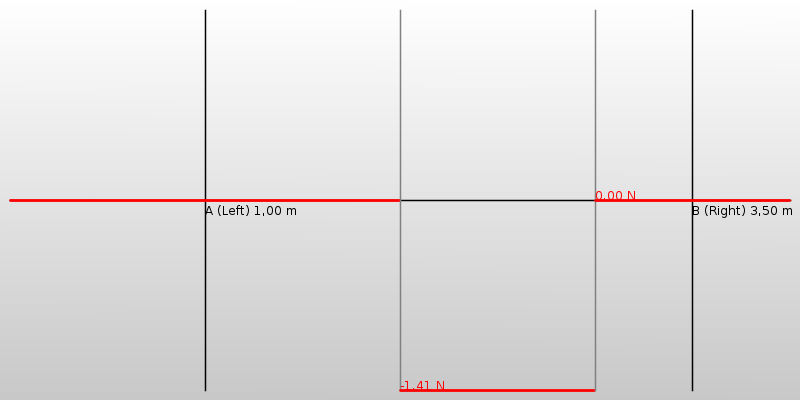
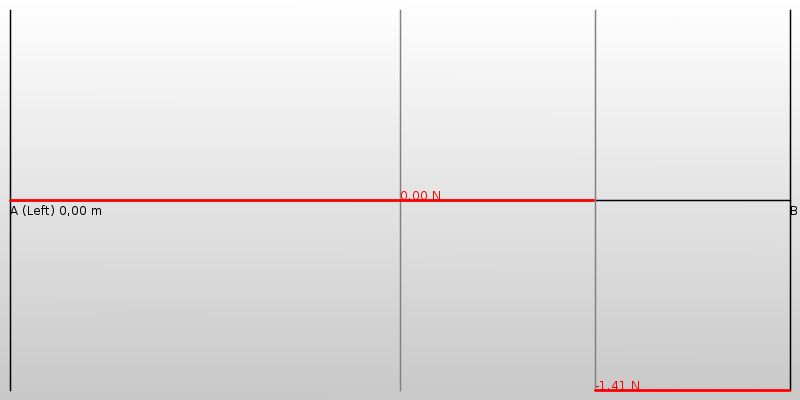
Worked on M- Solver....

diff --git a/src/org/berthold/beamCalc/StressResultantTable.java b/src/org/berthold/beamCalc/StressResultantTable.java
@@ -126,8 +126,7 @@ public class StressResultantTable {
 	 */
 	public void addDistributedLoad(Load dl_Nm) {
 
-		double dq_perSectionLength = dl_Nm.getForce_N() / (1 / this.sectionLength_m);
-
+		double dq_perSectionLength = dl_Nm.getForce_N() / (1/this.sectionLength_m);
 		double xStartOfLoad = dl_Nm.getDistanceFromLeftEndOfBeam_m();
 		double xEndOfLoad = dl_Nm.getDistanceFromLeftEndOfBeam_m() + dl_Nm.getLengthOfLineLoad_m();
 
@@ -136,18 +135,21 @@ public class StressResultantTable {
 			// Set disconiuity at start of load
 			if (xStartOfLoad>=r.getX_m() && xStartOfLoad<=r.getX_m()+this.sectionLength_m) {
 				r.setDiscontiunuity(true);
-				r.setShearingForceDeltaBy(dq_perSectionLength);
+				r.addValue(dq_perSectionLength);
+				System.out.println("START Disc!"+r.getX_m());
 			}
 
 			// Add load 
 			if (r.getX_m() >= xStartOfLoad && r.getX_m() <= xEndOfLoad) {
 				r.addValue(dq_perSectionLength);
+				System.out.println("q="+dq_perSectionLength+" x="+r.getX_m());
 			}
 			
 			// Set disconiuity at end of load
 			if (xEndOfLoad>=r.getX_m() && xEndOfLoad<=r.getX_m()+this.sectionLength_m) {
 				r.setDiscontiunuity(true);
 				r.setShearingForceDeltaBy(dq_perSectionLength);
+				System.out.println("END Disc!"+r.getX_m()+r.getX_m());
 			}
 
 		}

diff --git a/src/MainBeamCalculator.java b/src/MainBeamCalculator.java
@@ -19,18 +19,18 @@ public class MainBeamCalculator {
 
 		// Create a new beam
 		Beam myBeam = new Beam(4);
-		myBeam.addBearing(new Support("A (Left)", 1, Support.ROLLER_SUPPORT));
-		myBeam.addBearing(new Support("B (Right)", 3.5, Support.PIN_SUPPORT));
+		myBeam.addBearing(new Support("A (Left)", 0, Support.ROLLER_SUPPORT));
+		myBeam.addBearing(new Support("B (Right)", 4, Support.PIN_SUPPORT));
 
 		// Add loads
 		// NAME/ Force/ Distance/ Angle /Length
-		myBeam.addLoad(new Load("F1", -2.0, 2, 45, 0));
-		myBeam.addLoad(new Load("F2", 2, 3,45, 0));
+		myBeam.addLoad(new Load("F1", -2.0, 2, 0, 0));
+		myBeam.addLoad(new Load("F2", -2, 3,45, 0));
 		//myBeam.addLoad(new Load("F3", -1, 4,0, 0));
 		//myBeam.addLoad(new Load("q1", -5, 0, 0, 4));
 		
 		
-		//myBeam.addLoad(new Load("q2", -2, 0, 0, 4));
+		//myBeam.addLoad(new Load("q2", 2, 0, 0, 4));
 		//myBeam.addLoad(new Load("q3", -4, 2, 0, 2));
 
 		// Show beam info

diff --git a/src/org/berthold/beamCalc/QSolver.java b/src/org/berthold/beamCalc/QSolver.java
@@ -40,7 +40,7 @@ public class QSolver {
 	 * 
 	 */
 	public static StressResultantTable solve(Beam beam, String unit) {
-		final double sectionLength_m = .001; // Small values lead to more accurate results.
+		final double sectionLength_m = .0001; // Small values lead to more accurate results.
 
 		BeamResult result = BeamSolver.getResults(beam, "2f");
 

diff --git a/src/org/berthold/beamCalc/MSolver.java b/src/org/berthold/beamCalc/MSolver.java
@@ -72,7 +72,8 @@ public class MSolver {
 				mTable.getShearingForceAtIndex(n).setMaxima(true);
 
 			// Next
-			x = x + sectionLength_m;
+			x = x + sectionLength_m/1000;
+	
 		}
 		return mTable;
 	}
